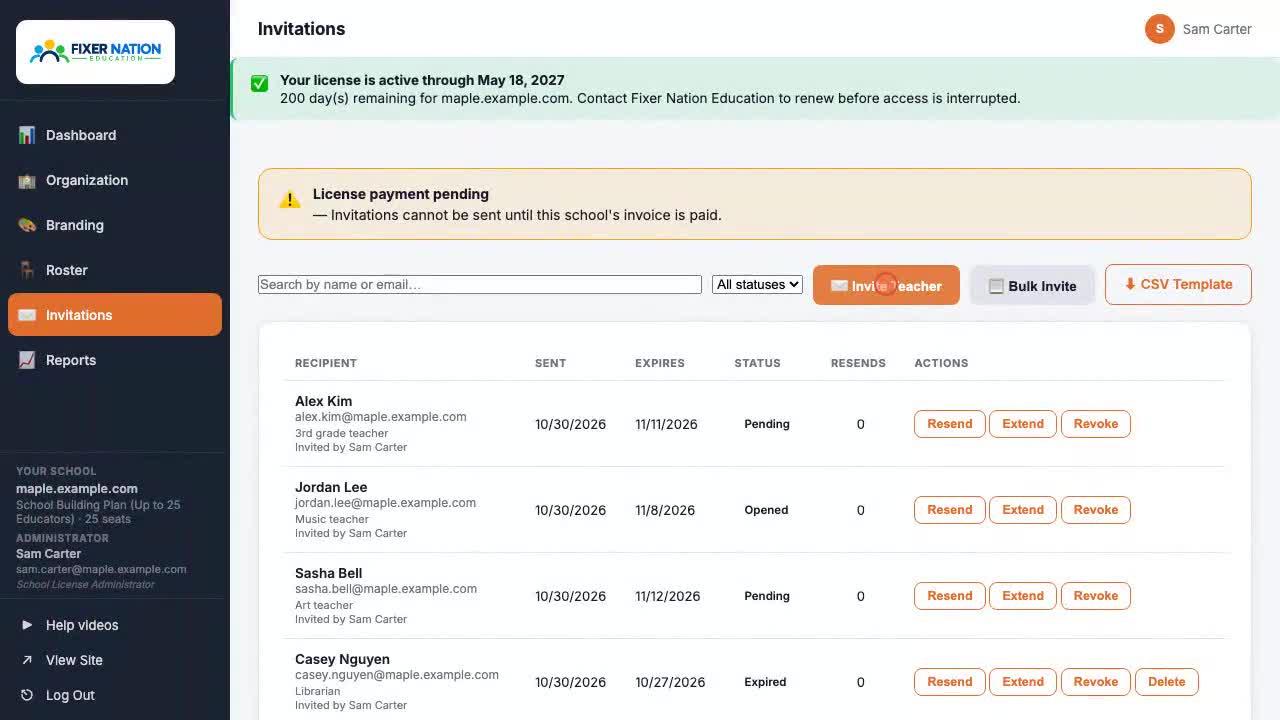
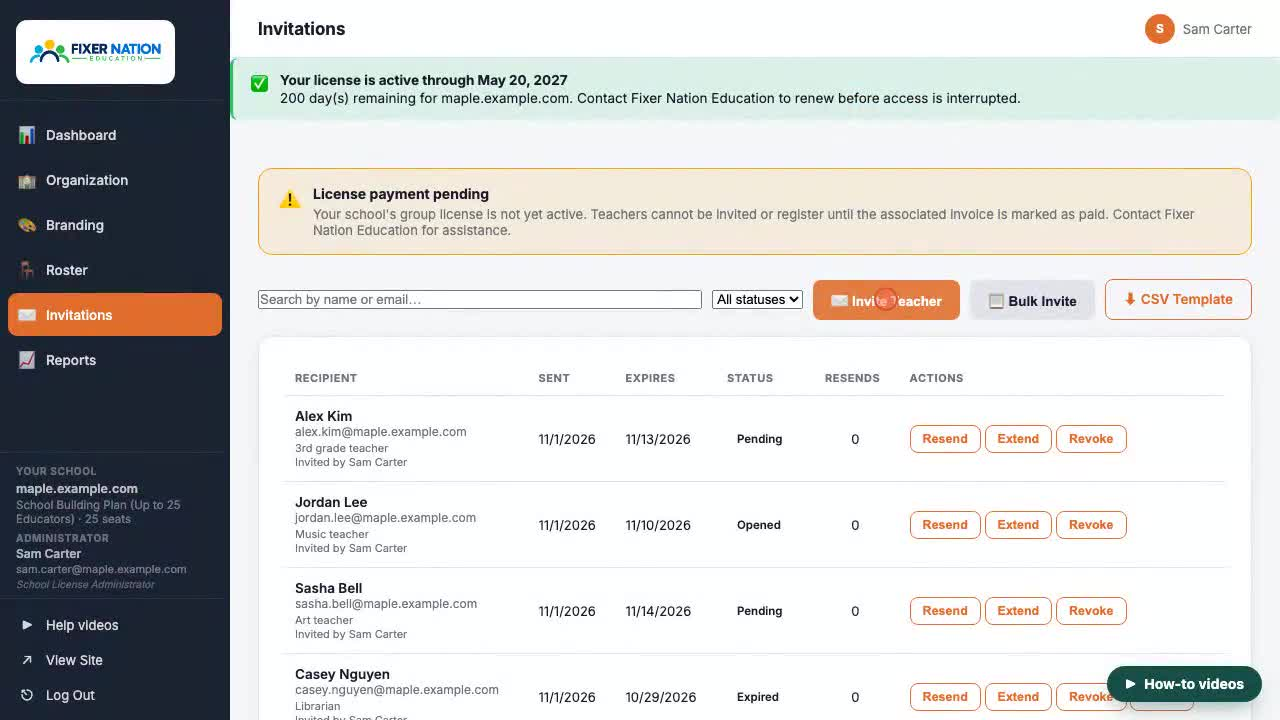
Release 73: publish B10 video, help-videos cache v=9

diff --git a/help-videos.js b/help-videos.js
@@ -52,7 +52,7 @@
       pages: ['school-admin-org.html'], url: 'https://res.cloudinary.com/x9ll3a3t/video/upload/v1793412334/fne/help/B9.mp4', captions: '/help-assets/B9.vtt', poster: '/help-assets/B9.jpg' },
     { id: 'B10', group: 'school-admins', topic: 'Your portal', title: 'Why can\'t I invite teachers yet?',
       summary: 'What a pending payment, a purchase order or a trial license means for sending invitations.',
-      pages: ['school-admin-invitations.html'], url: 'https://res.cloudinary.com/x9ll3a3t/video/upload/v1793391623/fne/help/B10.mp4', captions: '/help-assets/B10.vtt', poster: '/help-assets/B10.jpg' },
+      pages: ['school-admin-invitations.html'], url: 'https://res.cloudinary.com/x9ll3a3t/video/upload/v1793580512/fne/help/B10.mp4', captions: '/help-assets/B10.vtt', poster: '/help-assets/B10.jpg' },
     { id: 'B2', group: 'school-admins', topic: 'Teachers and seats', title: 'Invite a teacher',
       summary: 'Add one teacher to your school and see what they receive.',
       pages: ['school-admin-invitations.html'], url: 'https://res.cloudinary.com/x9ll3a3t/video/upload/v1793391625/fne/help/B2.mp4', captions: '/help-assets/B2.vtt', poster: '/help-assets/B2.jpg' },

diff --git a/school-admin-invitations.html b/school-admin-invitations.html
@@ -410,6 +410,6 @@ document.addEventListener('DOMContentLoaded', function () {
 
 function esc(str) { return String(str == null ? '' : str).replace(/&/g,'&amp;').replace(/</g,'&lt;').replace(/>/g,'&gt;').replace(/"/g,'&quot;').replace(/'/g,'&#39;'); }
 </script>
-<script src="help-videos.js?v=8" defer></script>
+<script src="help-videos.js?v=9" defer></script>
 </body>
 </html>

diff --git a/district-admin-dashboard.html b/district-admin-dashboard.html
@@ -138,6 +138,6 @@ function card(label, value, sub, cls) {
   return '<div class="sa-stat-card ' + cls + '"><div class="label">' + esc(label) + '</div><div class="value">' + esc(value) + '</div><div class="sub">' + esc(sub) + '</div></div>';
 }
 </script>
-<script src="help-videos.js?v=8" defer></script>
+<script src="help-videos.js?v=9" defer></script>
 </body>
 </html>

diff --git a/district-admin-schools.html b/district-admin-schools.html
@@ -306,6 +306,6 @@ async function submitAssign() {
 
 function esc(str) { return String(str == null ? '' : str).replace(/&/g,'&amp;').replace(/</g,'&lt;').replace(/>/g,'&gt;').replace(/"/g,'&quot;').replace(/'/g,'&#39;'); }
 </script>
-<script src="help-videos.js?v=8" defer></script>
+<script src="help-videos.js?v=9" defer></script>
 </body>
 </html>

diff --git a/school-admin-dashboard.html b/school-admin-dashboard.html
@@ -165,6 +165,6 @@ function renderDashboard(d) {
 
 function esc(str) { return String(str == null ? '' : str).replace(/&/g,'&amp;').replace(/</g,'&lt;').replace(/>/g,'&gt;').replace(/"/g,'&quot;').replace(/'/g,'&#39;'); }
 </script>
-<script src="help-videos.js?v=8" defer></script>
+<script src="help-videos.js?v=9" defer></script>
 </body>
 </html>

diff --git a/school-admin-org.html b/school-admin-org.html
@@ -261,6 +261,6 @@ function info(label, value) {
 
 function esc(str) { return String(str == null ? '' : str).replace(/&/g,'&amp;').replace(/</g,'&lt;').replace(/>/g,'&gt;').replace(/"/g,'&quot;').replace(/'/g,'&#39;'); }
 </script>
-<script src="help-videos.js?v=8" defer></script>
+<script src="help-videos.js?v=9" defer></script>
 </body>
 </html>

diff --git a/school-admin-reports.html b/school-admin-reports.html
@@ -302,6 +302,6 @@ function exportCsv(type) {
 
 function esc(str) { return String(str == null ? '' : str).replace(/&/g,'&amp;').replace(/</g,'&lt;').replace(/>/g,'&gt;').replace(/"/g,'&quot;').replace(/'/g,'&#39;'); }
 </script>
-<script src="help-videos.js?v=8" defer></script>
+<script src="help-videos.js?v=9" defer></script>
 </body>
 </html>

diff --git a/parent-invite-accept.html b/parent-invite-accept.html
@@ -339,6 +339,6 @@ function showError(msg) {
 function show(id) { document.getElementById(id).style.display = ''; }
 function hide(id) { document.getElementById(id).style.display = 'none'; }
 </script>
-<script src="help-videos.js?v=8" defer></script>
+<script src="help-videos.js?v=9" defer></script>
 </body>
 </html>

diff --git a/school-invite-accept.html b/school-invite-accept.html
@@ -391,6 +391,6 @@ function showError(msg) {
 function show(id) { document.getElementById(id).style.display = ''; }
 function hide(id) { document.getElementById(id).style.display = 'none'; }
 </script>
-<script src="help-videos.js?v=8" defer></script>
+<script src="help-videos.js?v=9" defer></script>
 </body>
 </html>

diff --git a/help-videos.html b/help-videos.html
@@ -78,7 +78,7 @@
 <script src="nav.js?v=16"></script>
 <script src="site-auth.js?v=10"></script>
 <script src="footer.js?v=9"></script>
-<script src="help-videos.js?v=8"></script>
+<script src="help-videos.js?v=9"></script>
 <script>
 // Jump links for the groups that actually have something to show.
 (function () {

diff --git a/become-an-affiliate.html b/become-an-affiliate.html
@@ -289,6 +289,6 @@ document.getElementById('affiliateForm').addEventListener('submit', async functi
 <script src="cart.js"></script>
 
 <script src="footer.js?v=9"></script>
-<script src="help-videos.js?v=8" defer></script>
+<script src="help-videos.js?v=9" defer></script>
 </body>
 </html>

diff --git a/reset-password.html b/reset-password.html
@@ -140,6 +140,6 @@ document.getElementById('resetForm').addEventListener('submit', async function (
 
 <footer></footer>
 <script src="footer.js?v=9"></script>
-<script src="help-videos.js?v=8" defer></script>
+<script src="help-videos.js?v=9" defer></script>
 </body>
 </html>
